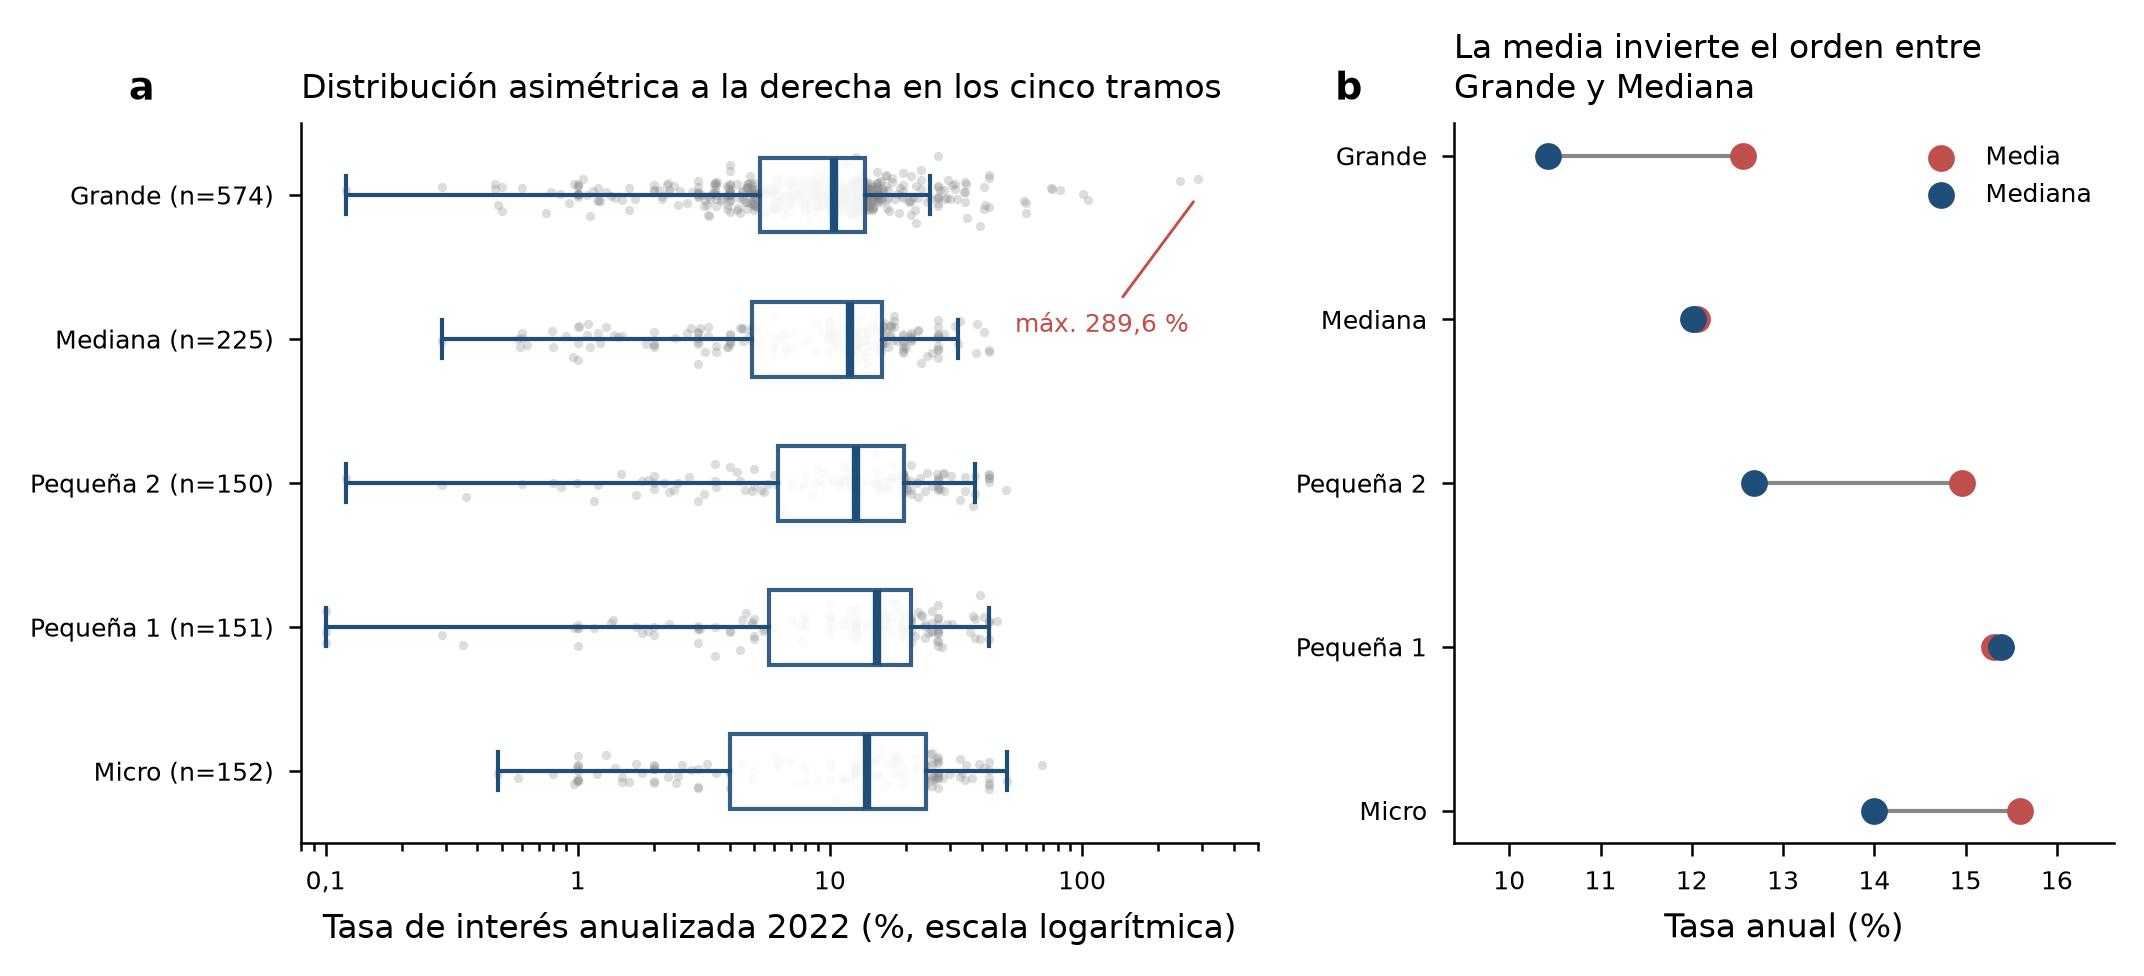
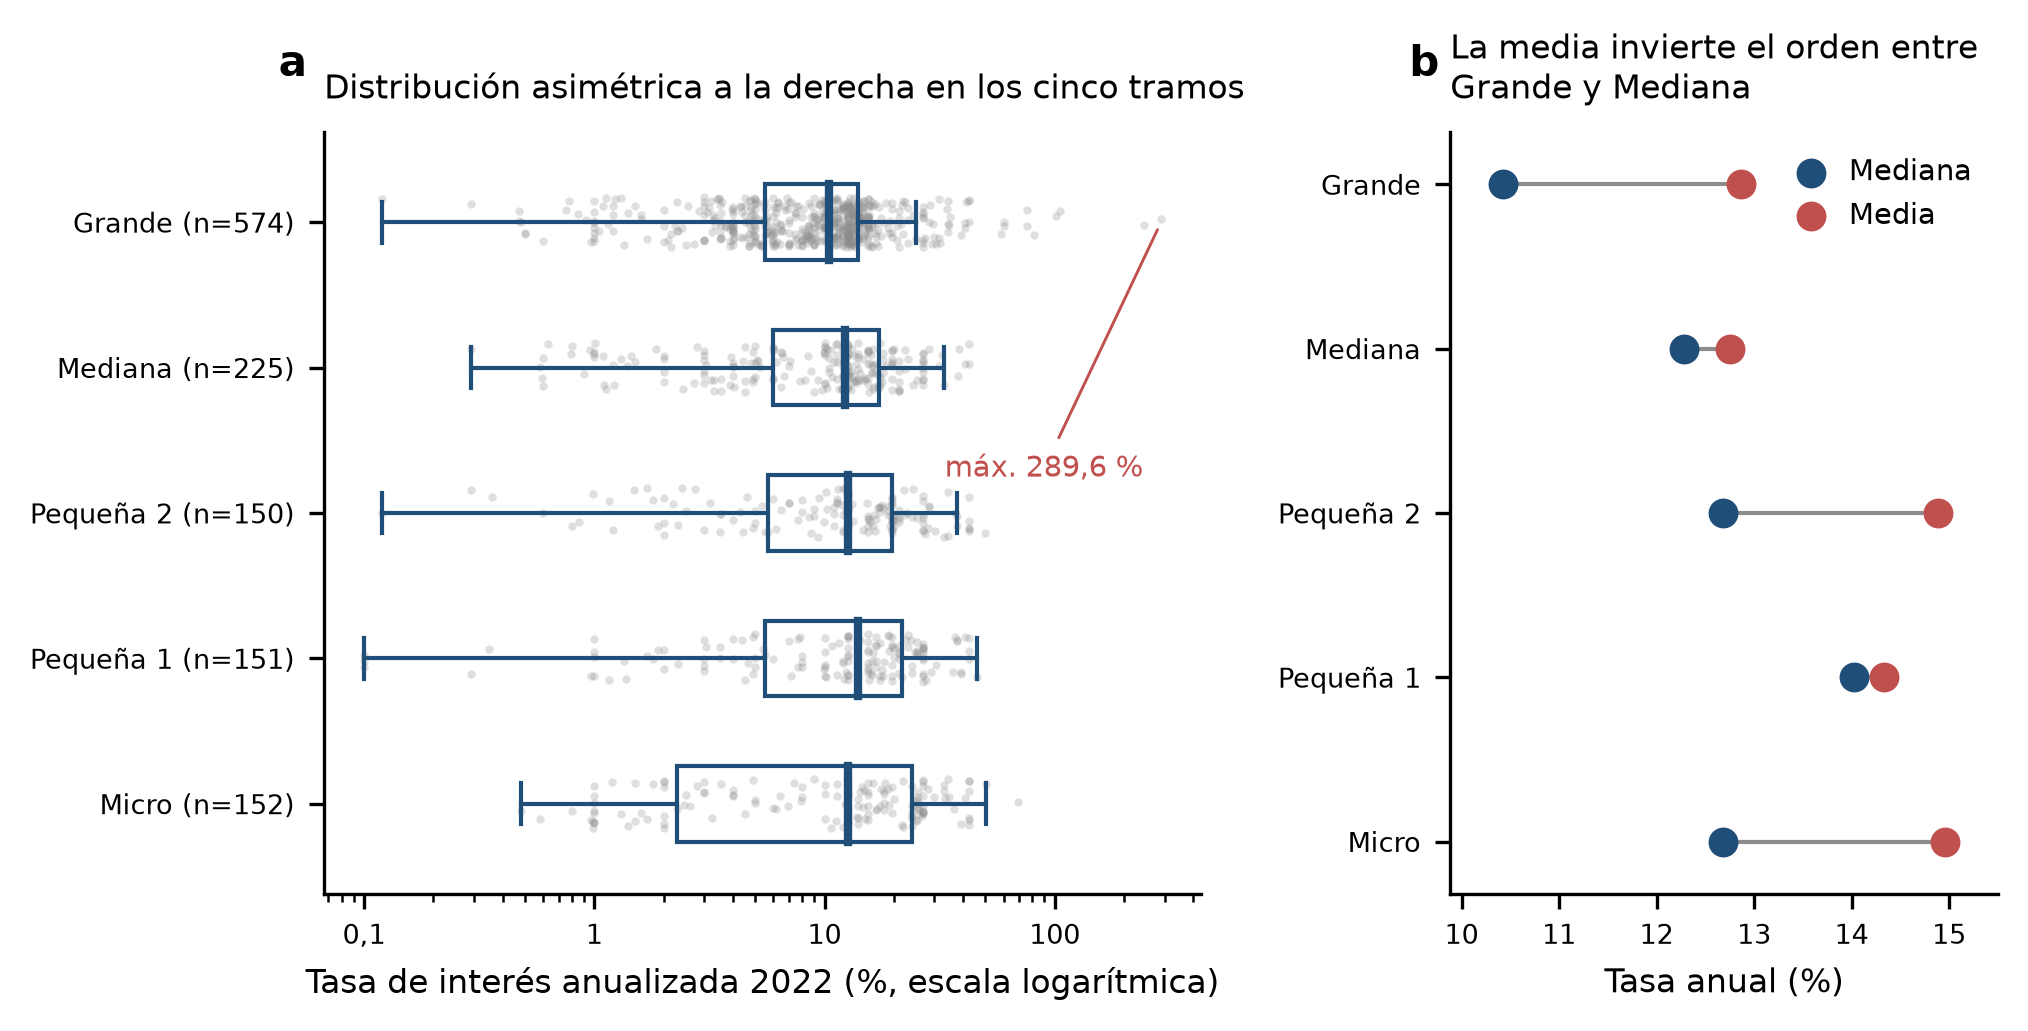
docs(caballero): llevar el capitulo 3 a la convencion ponderada de la ELE-7

diff --git a/docs/MemoriasTesis/Caballero/chapters/chapter03.tex b/docs/MemoriasTesis/Caballero/chapters/chapter03.tex
@@ -214,6 +214,8 @@ No existe, hasta donde se ha buscado, una fuente pública que reporte esta arist
 
 Se utilizan dos fuentes públicas. La primera es la Dirección de Presupuestos (DIPRES), organismo dependiente del Ministerio de Hacienda que elabora el presupuesto del sector público y realiza el monitoreo y seguimiento de los programas públicos, entre ellos el programa Crédito Corfo Mipyme. Su Informe de Detalle de Programas Sociales con cierre a diciembre de 2021 \cite{dipres_detalle_2021} reporta la tasa de interés mayorista CORFO$\to$IFNB (4,23\%--4,73\% anual) y cuyo Informe de Monitoreo 2021 \cite{dipres_monitoreo_2021} reporta el spread de la tasa a cliente final IFNB respecto al benchmark de mercado ACHEF/EFA ($-7$ a $-10$ puntos porcentuales). La segunda es la ELE-7 (Séptima Encuesta Longitudinal de Empresas), cuyos microdatos completos \cite{ele7_microdatos_2024} (\texttt{ele7-full.csv}, 6.592 empresas) permiten obtener la tasa de interés del crédito de mayor monto aprobado en 2022 (variable \texttt{B066}), segmentada por tamaño de empresa (variable \texttt{TAMANO}) y anualizada según periodicidad reportada (variables \texttt{B067}/\texttt{B068}). Complementariamente, el informe oficial de resultados de la misma encuesta \cite{ele7_informe_2024} reporta la tasa de rechazo condicional a la solicitud de crédito por tamaño de empresa.
 
+Todas las cifras que este trabajo obtiene de la ELE-7 se ponderan por el factor de expansión transversal de la encuesta, de modo que se leen como representativas de la población de empresas y no de la muestra. Esa convención admite una sola excepción, que corresponde declarar en vez de dejarla implícita. Las dos cifras que anclan la fricción de acceso de la Sección~\ref{c3:supuesto-lambda}, a saber la tasa de rechazo y la razón de autocensura, provienen del informe oficial de resultados y no del microdato, y el extracto disponible no trae las variables necesarias para recalcularlas ponderadas.
+
 
 Ninguna de estas dos fuentes se distribuye junto con el código que acompaña a este trabajo, tanto por su tamaño como por sus condiciones de uso, de modo que conviene dejar indicada la vía de obtención de cada una. Los microdatos de la ELE-7 se descargan como archivo único desde el sitio del Ministerio de Economía, Fomento y Turismo, mientras que el Informe de Monitoreo y el Informe de Detalle de Programas Sociales se obtienen desde la biblioteca digital de DIPRES. La dirección exacta de cada documento queda registrada en su entrada de la bibliografía.
 
@@ -225,9 +227,11 @@ El Anexo~\ref{anexo:fuentes} resume las fuentes consultadas y el insumo que apor
 \subsection[Supuesto para W23. Tasa subsidiada del canal Tradicional]{Supuesto para $W_{23}$. Tasa subsidiada del canal Tradicional}
 \label{c3:supuesto-w23}
 
-Se asume que la tasa de interés que los IFNB cobran a la MiPyME bajo el programa Crédito Corfo Mipyme se ubica entre 7 y 10 puntos porcentuales por debajo del benchmark de mercado (ACHEF/EFA), según reporta DIPRES en su Informe de Monitoreo 2021 del programa \cite{dipres_monitoreo_2021}. Tomando como benchmark de mercado la tasa mediana observada para empresas de menor tamaño, que va de 14\% a 15,4\% anual (Sección~\ref{c3:tasa-mercado}), ese descuento sitúa la tasa subsidiada entre 4\% y 8,4\% anual. Una segunda referencia, independiente de la anterior, es la tasa mayorista CORFO$\to$IFNB, que \citeA{dipres_detalle_2021} reporta entre 4,23\% y 4,73\% anual y que opera como piso, ya que el IFNB traspasa el subsidio casi íntegro a la MiPyME y agrega solo un margen operativo menor, en línea con el rol de ``banca de segundo piso'' que describe CORFO para este programa.
+Se asume que la tasa de interés que los IFNB cobran a la MiPyME bajo el programa Crédito Corfo Mipyme se ubica entre 7 y 10 puntos porcentuales por debajo del benchmark de mercado, según reporta DIPRES en su Informe de Monitoreo 2021 del programa \cite{dipres_monitoreo_2021}. Corresponde precisar cuál es ese benchmark, puesto que DIPRES mide el descuento contra la referencia ACHEF/EFA, que es una referencia de factoring y cuyo nivel el propio informe no reporta. Como ese nivel no está disponible, se emplea en su lugar la mediana de la ELE-7 sobre el conjunto de los tramos MiPyME, es decir los cuatro que excluyen al tramo Grande, que vale 12,68\% anual sobre 678 empresas (Sección~\ref{c3:tasa-mercado}). Dicha mediana se declara aquí como sustituto de la referencia de DIPRES y no como el mismo objeto, distinción que conviene hacer explícita porque de ella depende cuánto pesa el supuesto.
 
-Sobre esas dos referencias se adopta como supuesto de trabajo el rango de 3\% a 6\% anual, que es el que emplea la corrida de la Sección~\ref{c4:prediccion}. Corresponde declarar con precisión su estatus, dado que no se deduce de ninguna de las dos referencias sino que las resume de forma deliberadamente amplia, de modo que su extremo inferior queda por debajo de la tasa mayorista y su extremo superior por debajo del máximo que admite el descuento declarado.
+Restando el descuento a esa mediana se obtiene un rango de 2,68\% a 5,68\% anual, que redondeado a enteros entrega el 3\% a 6\% que este trabajo adopta y que emplea la corrida de la Sección~\ref{c4:prediccion}, con un residuo de 0,32 puntos en cada extremo. El único benchmark puntual que reproduciría 3\% a 6\% de forma exacta sería uno de 13,0\% anual, que el capítulo no reporta y que no corresponde introducir solo para cerrar la cuenta. Una segunda referencia, independiente de la anterior, es la tasa mayorista CORFO$\to$IFNB, que \citeA{dipres_detalle_2021} reporta entre 4,23\% y 4,73\% anual y que opera como piso, ya que el IFNB traspasa el subsidio casi íntegro a la MiPyME y agrega solo un margen operativo menor, en línea con el rol de ``banca de segundo piso'' que describe CORFO para este programa.
+
+El estatus del rango de 3\% a 6\% sigue siendo el de un supuesto de trabajo, dado que descansa en un sustituto declarado del benchmark y en un redondeo, si bien ahora cuenta con una derivación explícita en lugar de presentarse como un resumen amplio de dos referencias. Su extremo inferior queda además por debajo de la tasa mayorista.
 
 De esa amplitud se sigue una consecuencia que el supuesto debe hacer explícita. El margen del intermediario es la diferencia entre la tasa subsidiada y la mayorista, de manera que con los intervalos anteriores recorre desde $-1{,}73$ hasta $+1{,}77$ puntos porcentuales, y solo el 50,7\% del área del rectángulo que forman ambos intervalos deja un margen positivo, proporción que sobre la rejilla del barrido corresponde a 384 de las 768 combinaciones. En la mitad restante el modelo predice que el intermediario no coloca y que el programa no opera, situación que no describe al programa aquí representado. Por esa razón la corrida de la Sección~\ref{c4:prediccion-reparto} descarta de forma explícita las combinaciones de margen negativo, descarte que forma parte del supuesto mientras no exista una fuente que reporte directamente la tasa cobrada a la MiPyME.
 
@@ -239,34 +243,36 @@ $M_{34}$ representa, en la notación del modelo, la creencia de retorno esperado
 \begin{figure}[htbp]
 \centering
 \includegraphics[width=\textwidth]{fig_ele7_distribucion_tasas.png}
-\caption[Distribución de la tasa de interés anualizada 2022 por tamaño de empresa]{Distribución de la tasa de interés anualizada del crédito de mayor monto aprobado en 2022, por tramo de tamaño de empresa. Elaboración propia a partir de los microdatos de la ELE-7 \cite{ele7_microdatos_2024} (variable \texttt{B066} segmentada por \texttt{TAMANO}), sobre las $1.252$ empresas que reportan tasa. El panel (a) usa escala logarítmica para hacer visible el rango completo de los datos, con cada punto gris una empresa y la caja los cuartiles. El panel (b) contrasta mediana y media por tramo.}
+\caption[Distribución de la tasa de interés anualizada 2022 por tamaño de empresa]{Distribución de la tasa de interés anualizada del crédito de mayor monto aprobado en 2022, por tramo de tamaño de empresa. Elaboración propia a partir de los microdatos de la ELE-7 \cite{ele7_microdatos_2024} (variable \texttt{B066} segmentada por \texttt{TAMANO}), sobre las $1.252$ empresas que reportan tasa. El panel (a) usa escala logarítmica para hacer visible el rango completo de los datos, con cada punto gris una empresa y la caja los cuartiles. El panel (b) contrasta mediana y media por tramo. Los cuartiles y ambas síntesis se ponderan por el factor de expansión transversal, mientras que los puntos son las observaciones.}
 \label{fig:ele7-distribucion}
 \end{figure}
 
-El panel (a) de la Figura~\ref{fig:ele7-distribucion} muestra que la distribución es asimétrica a la derecha en los cinco tramos, con coeficientes de asimetría que van de $0{,}67$ en Pequeña~1 a $9{,}92$ en Grande. En una distribución con esta forma la media deja de representar al caso típico, porque las observaciones de la cola larga la desplazan hacia arriba sin que exista una cola equivalente que compense hacia abajo. El tramo Grande concentra el problema, ya que registra $41$ observaciones atípicas superiores según el criterio de rango intercuartílico y una tasa máxima de $289{,}6\%$ anual.
+El panel (a) de la Figura~\ref{fig:ele7-distribucion} muestra que la distribución es asimétrica a la derecha en los cinco tramos, con coeficientes de asimetría que van de $0{,}47$ en Pequeña~1 a $9{,}77$ en Grande. En una distribución con esta forma la media deja de representar al caso típico, porque las observaciones de la cola larga la desplazan hacia arriba sin que exista una cola equivalente que compense hacia abajo. El tramo Grande concentra el problema, ya que registra $41$ observaciones atípicas superiores según el criterio de rango intercuartílico y una tasa máxima de $289{,}6\%$ anual.
 
-El panel (b) hace explícita la consecuencia para el supuesto que aquí interesa. Medida por la mediana, la tasa del tramo Grande ($10{,}43\%$) es menor que la del tramo Mediana ($12{,}01\%$), lo que concuerda con la relación esperada entre tamaño de empresa y costo del crédito. Medida por la media, en cambio, el tramo Grande ($12{,}56\%$) aparece por sobre el tramo Mediana ($12{,}06\%$), es decir, el orden se invierte. Esa inversión no refleja un fenómeno económico sino la influencia de unas pocas observaciones extremas, ya que basta con excluir la observación máxima de las $574$ del tramo Grande para que su media caiga de $12{,}56\%$ a $12{,}07\%$ y la inversión prácticamente desaparezca. La media recortada al $10\%$ confirma el diagnóstico, puesto que restituye el orden esperado con $10{,}01\%$ en Grande frente a $11{,}19\%$ en Mediana.
+El panel (b) hace explícita la consecuencia para el supuesto que aquí interesa. Medida por la mediana, la tasa del tramo Grande ($10{,}43\%$) es menor que la del tramo Mediana ($12{,}28\%$), lo que concuerda con la relación esperada entre tamaño de empresa y costo del crédito. Medida por la media, en cambio, el tramo Grande ($12{,}87\%$) aparece por sobre el tramo Mediana ($12{,}75\%$), es decir, el orden se invierte. Esa inversión no refleja un fenómeno económico sino la influencia de unas pocas observaciones extremas, ya que basta con excluir la observación máxima de las $574$ del tramo Grande para que su media caiga de $12{,}87\%$ a $12{,}16\%$ y la inversión desaparezca. La media recortada al $10\%$ confirma el diagnóstico, puesto que restituye el orden esperado con $10{,}07\%$ en Grande frente a $11{,}83\%$ en Mediana.
 
 Por lo tanto, la mediana es el estimador adecuado en este caso. Es insensible a las observaciones extremas que distorsionan la media, preserva el ordenamiento económico entre tramos y no depende de una decisión arbitraria sobre qué observaciones recortar.
 
 \begin{table}[htbp]
 \centering
-\caption[Tasa de interés mediana anual 2022 por tamaño de empresa (ELE-7)]{Tasa de interés anualizada mediana del crédito de mayor monto aprobado en 2022, por tamaño de empresa. Elaboración propia a partir de los microdatos de la ELE-7 \cite{ele7_microdatos_2024} (variable \texttt{B066} segmentada por \texttt{TAMANO}).}
+\caption[Tasa de interés mediana anual 2022 por tamaño de empresa (ELE-7)]{Tasa de interés anualizada mediana del crédito de mayor monto aprobado en 2022, por tamaño de empresa. Elaboración propia a partir de los microdatos de la ELE-7 \cite{ele7_microdatos_2024} (variable \texttt{B066} segmentada por \texttt{TAMANO}). Las medianas se ponderan por el factor de expansión transversal \texttt{fe\_transversal}, bajo la convención del primer valor cuyo peso acumulado alcanza el cincuenta por ciento. La variante interpolada de esa misma convención daría $12{,}73\%$ en Pequeña~2 y $14{,}06\%$ en Pequeña~1, y deja las tres restantes sin cambio.}
 \label{tab:ele7-tasas}
 \begin{tabular}{lcc}
 \hline
 Tramo ELE-7 & Tasa mediana anual 2022 & $n$ \\
 \hline
 Grande      & 10,43\% & 574 \\
-Mediana     & 12,01\% & 225 \\
+Mediana     & 12,28\% & 225 \\
 Pequeña 2   & 12,68\% & 150 \\
-Pequeña 1   & 15,39\% & 151 \\
-Micro       & 14,00\% & 152 \\
+Pequeña 1   & 14,03\% & 151 \\
+Micro       & 12,68\% & 152 \\
 \hline
 \end{tabular}
 \end{table}
 
-Se adopta, por lo tanto, el rango 14\%--15,4\% (segmentos Pequeña~1 y Micro) como supuesto de $M_{34}$ para la MiPyME en la red Alternativa. La Tabla~\ref{tab:ele7-tasas} muestra una tendencia general de mayor tasa a menor tamaño (Grande 10,43\% frente a Pequeña~1 15,39\%); sin embargo, esta relación no es estrictamente monotónica, ya que Micro (14,00\%) queda levemente por debajo de Pequeña~1 (15,39\%). Dicha diferencia puede reflejar más bien el tamaño de muestra reducido ($n=151$ y $n=152$ respectivamente) que un efecto económico real, por lo que debe reportarse sin forzar una lectura estrictamente monotónica.
+Se adopta, por lo tanto, el rango 12,68\%--14,03\% (segmentos Micro y Pequeña~1) como supuesto de $M_{34}$ para la MiPyME en la red Alternativa. La Tabla~\ref{tab:ele7-tasas} muestra una tendencia general de mayor tasa a menor tamaño, ya que Grande registra 10,43\% frente al 14,03\% de Pequeña~1. Sin embargo, esa relación no es estrictamente monotónica, puesto que Micro, que es el tramo de menor tamaño, registra 12,68\% y queda 1,35 puntos por debajo de Pequeña~1, de modo que el orden se rompe justamente en el extremo inferior. A ello se agrega que Micro y Pequeña~2 coinciden de forma exacta en 12,68\%, coincidencia que no es casual y que el cierre de esta sección explica. Por lo tanto el intervalo debe reportarse sin forzar una lectura estrictamente monotónica.
+
+Conviene cerrar con un rasgo de la distribución que condiciona cómo leer estas cifras. La tasa anualizada no se distribuye de forma suave, sino que presenta puntos de masa, y los cuatro más poblados son 12,68\% con 65 casos, 26,82\% con 43, 15,39\% con 38 y 19,56\% con 28. Esos cuatro valores corresponden exactamente a tasas mensuales de 1,0\%, 2,0\%, 1,2\% y 1,5\% capitalizadas a doce meses, de manera que las empresas declaran tasas mensuales redondas y la anualización las lleva a esos valores. De ahí se siguen dos consecuencias. La primera es que la regla de anualización queda confirmada como capitalización compuesta y no como multiplicación por doce, lo que se verificó invirtiendo los 705 casos declarados en base mensual. La segunda es que la precisión aparente de dos decimales resulta engañosa, ya que las medianas caen sobre puntos de masa y saltan de uno a otro en lugar de moverse de forma continua. Por eso Micro y Pequeña~2 coinciden, y por eso ponderar desplaza la mediana de Micro en 1,32 puntos de una sola vez. El intervalo de $M_{34}$ no es una medición fina sino una elección entre puntos de masa contiguos.
 
 \subsection[Supuesto para la fricción de acceso lambda A]{Supuesto para la fricción de acceso $\lambda_A$}
 \label{c3:supuesto-lambda}

diff --git a/code/caballero/caballero_figura_ele7.py b/code/caballero/caballero_figura_ele7.py
@@ -1,0 +1,116 @@
+"""Genera la figura de distribución de tasas de la ELE-7 del Capítulo 3.
+
+Todas las síntesis se ponderan por ``fe_transversal``, que es la convención
+única que el Capítulo 3 declara para esta encuesta. La mediana ponderada usa la
+convención del primer valor cuyo peso acumulado alcanza el cincuenta por ciento.
+
+Los microdatos no se versionan, por tamaño y por condiciones de uso, de modo que
+la ruta del extracto se pasa como argumento.
+
+    python caballero_figura_ele7.py <ruta>/ele7_financiamiento_mipyme.csv \
+        <ruta>/fig_ele7_distribucion_tasas.png
+"""
+import sys
+
+import matplotlib as mpl
+import numpy as np
+import pandas as pd
+
+mpl.use("Agg")
+import matplotlib.pyplot as plt
+from matplotlib.ticker import FuncFormatter
+
+AZUL, ROJO, GRIS = "#1f4e79", "#c0504d", "#8c8c8c"
+TRAMOS = ["Grande", "Mediana", "Pequeña 2", "Pequeña 1", "Micro"]
+
+
+def wquant(x, w, q):
+    """Cuantil ponderado, primer valor cuyo peso acumulado alcanza q."""
+    orden = np.argsort(x)
+    x, w = np.asarray(x)[orden], np.asarray(w)[orden]
+    return float(x[np.searchsorted(np.cumsum(w), q * w.sum())])
+
+
+def estilo():
+    mpl.rcParams.update({
+        "figure.dpi": 300, "savefig.dpi": 300, "savefig.bbox": "tight",
+        "font.size": 8, "axes.titlesize": 8, "axes.labelsize": 8,
+        "legend.fontsize": 7, "xtick.labelsize": 6.5, "ytick.labelsize": 6.5,
+        "axes.spines.top": False, "axes.spines.right": False,
+        "xtick.direction": "out", "ytick.direction": "out",
+        "axes.titlelocation": "left", "axes.titlepad": 8,
+    })
+
+
+def figura(d, salida):
+    coma = FuncFormatter(lambda v, _: f"{v:g}".replace(".", ","))
+    fig, (ax_a, ax_b) = plt.subplots(1, 2, figsize=(7.2, 3.3),
+                                     gridspec_kw={"width_ratios": [1.6, 1]})
+    rng = np.random.default_rng(0)
+
+    for i, t in enumerate(TRAMOS):
+        g = d[d.tamano == t]
+        x, w = g.tasa_anual_pct.values, g.fe_transversal.values
+        q1, q2, q3 = (wquant(x, w, q) for q in (0.25, 0.50, 0.75))
+        bajo, alto = q1 - 1.5 * (q3 - q1), q3 + 1.5 * (q3 - q1)
+        dentro = x[(x >= bajo) & (x <= alto)]
+        ax_a.scatter(x, i + rng.uniform(-0.17, 0.17, len(x)), s=4, color=GRIS,
+                     alpha=0.28, linewidths=0, zorder=1)
+        ax_a.add_patch(plt.Rectangle((q1, i - 0.26), q3 - q1, 0.52, fill=False,
+                                     edgecolor=AZUL, linewidth=1.0, zorder=3))
+        ax_a.plot([q2, q2], [i - 0.26, i + 0.26], color=AZUL, lw=2.0, zorder=4)
+        ax_a.plot([dentro.min(), q1], [i, i], color=AZUL, lw=1.0, zorder=2)
+        ax_a.plot([q3, dentro.max()], [i, i], color=AZUL, lw=1.0, zorder=2)
+        for extremo in (dentro.min(), dentro.max()):
+            ax_a.plot([extremo, extremo], [i - 0.14, i + 0.14], color=AZUL, lw=1.0, zorder=2)
+
+    maximo = d.tasa_anual_pct.max()
+    fila = TRAMOS.index(d.loc[d.tasa_anual_pct.idxmax(), "tamano"])
+    etiqueta = "máx. " + f"{maximo:.1f}".replace(".", ",") + " %"
+    ax_a.annotate(etiqueta, xy=(maximo, fila),
+                  xytext=(90, 1.75), color=ROJO, fontsize=7, ha="center",
+                  arrowprops=dict(arrowstyle="-", color=ROJO, lw=0.7))
+    ax_a.set_xscale("log")
+    ax_a.set_xticks([0.1, 1, 10, 100])
+    ax_a.xaxis.set_major_formatter(coma)
+    ax_a.set_yticks(range(len(TRAMOS)))
+    ax_a.set_yticklabels([f"{t} (n={int((d.tamano == t).sum())})" for t in TRAMOS])
+    ax_a.invert_yaxis()
+    ax_a.set_xlabel("Tasa de interés anualizada 2022 (%, escala logarítmica)")
+    ax_a.set_title("Distribución asimétrica a la derecha en los cinco tramos")
+    ax_a.margins(y=0.08)
+
+    for i, t in enumerate(TRAMOS):
+        g = d[d.tamano == t]
+        med = wquant(g.tasa_anual_pct.values, g.fe_transversal.values, 0.50)
+        media = float(np.average(g.tasa_anual_pct, weights=g.fe_transversal))
+        ax_b.plot([med, media], [i, i], color=GRIS, lw=1.0, zorder=1)
+        ax_b.scatter([med], [i], s=38, color=AZUL, zorder=3,
+                     label="Mediana" if i == 0 else None)
+        ax_b.scatter([media], [i], s=38, color=ROJO, zorder=3,
+                     label="Media" if i == 0 else None)
+    ax_b.set_yticks(range(len(TRAMOS)))
+    ax_b.set_yticklabels(TRAMOS)
+    ax_b.invert_yaxis()
+    ax_b.xaxis.set_major_formatter(coma)
+    ax_b.set_xlabel("Tasa anual (%)")
+    ax_b.set_title("La media invierte el orden entre\nGrande y Mediana")
+    ax_b.margins(x=0.12, y=0.08)
+    ax_b.legend(frameon=False, loc="upper right", handletextpad=0.3)
+
+    for ax, letra in ((ax_a, "a"), (ax_b, "b")):
+        ax.text(-0.02, 1.06, letra, transform=ax.transAxes, fontsize=10,
+                fontweight="bold", va="bottom", ha="right")
+
+    fig.subplots_adjust(wspace=0.35)
+    fig.savefig(salida)
+    return fig
+
+
+if __name__ == "__main__":
+    if len(sys.argv) != 3:
+        raise SystemExit("uso: caballero_figura_ele7.py <ruta>/ele7_financiamiento_mipyme.csv <ruta>/fig.png")
+    estilo()
+    datos = pd.read_csv(sys.argv[1]).dropna(subset=["tasa_anual_pct"])
+    figura(datos, sys.argv[2])
+    print(f"figura escrita en {sys.argv[2]} sobre {len(datos)} empresas con tasa")
